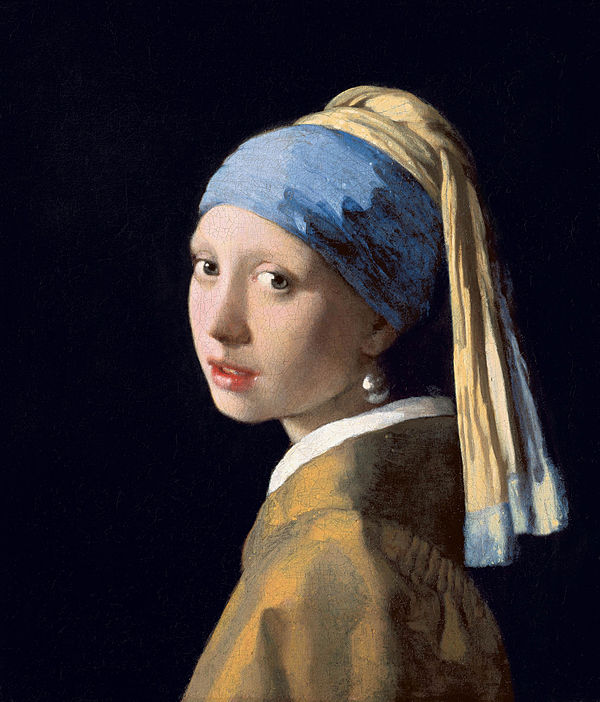
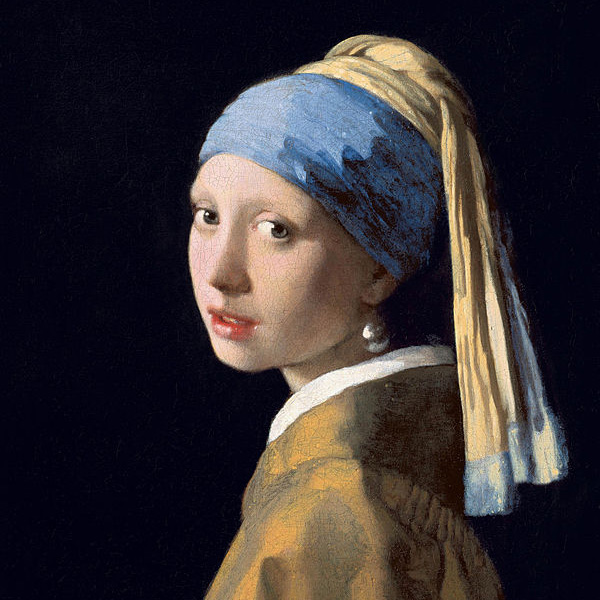
Added sample images and attribution

Changed region(s): [[0.3, 0.51, 0.96, 1.0], [0.3, 0.03, 0.87, 0.48]]

diff --git a/pages/index.vue b/pages/index.vue
@@ -6,11 +6,16 @@ v-container(grid-list-md text-xs-center)
 				v-layout(row wrap)
 					v-flex.pa-0(xs4)
 						v-card.px-2.py-4(flat)
-							v-img(
-								width="100%"
-								aspect-ratio="1"
-								:src="image"
-							)
+							v-tooltip(top :disabled="!sample.attribution")
+								template(v-slot:activator="{ on }")
+									v-img(
+										v-if="sample.src"
+										v-on="on"
+										width="100%"
+										aspect-ratio="1"
+										:src="sample.src"
+									)
+								small(v-if="sample.attribution") {{ sample.attribution }}
 							v-card-actions.pt-4.pb-0
 								v-spacer
 								v-dialog(
@@ -28,7 +33,7 @@ v-container(grid-list-md text-xs-center)
 												v-layout(row wrap)
 													v-flex(
 														v-for="sample in samples"
-														:key="sample"
+														:key="sample.name"
 														xs4
 													)
 														v-hover
@@ -40,7 +45,7 @@ v-container(grid-list-md text-xs-center)
 																@click="setSample(sample)"
 															)
 																v-img(
-																	:src="sample"
+																	:src="sample.src"
 																	aspect-ratio="1"
 																)
 												v-layout(row wrap)
@@ -196,7 +201,7 @@ export default {
 		return {
 			style: undefined,
 			image: '/samples/arch.jpg',
-			imageSrc: '/samples/archjpg',
+			imageSrc: '/samples/arch.jpg',
 			pixels: 640,
 			imageReader: {},
 			MediaStream: {},
@@ -217,10 +222,26 @@ export default {
 				'wave',
 				'wreck'
 			],
+			sample: undefined,
 			samples: [
-				'/samples/arch.jpg',
-				'/samples/puppy.jpg',
-				'/samples/vermeer.jpg'
+				{
+					src: "/samples/arch.jpg",
+					attribution: "St_Louis_night_expblend.jpg: Daniel Schwenderivative work: ←fetchcomms [CC BY-SA 2.5 (https://creativecommons.org/licenses/by-sa/2.5)]"
+				},
+				{
+					src: "/samples/cage.jpg",
+					attribution: "nicolas genin [CC BY-SA 2.0 (https://creativecommons.org/licenses/by-sa/2.0)]"
+				},
+				{
+					src: "/samples/vangogh.jpg"
+				},
+				{
+					src: "/samples/vermeer.jpg"
+				},
+				{
+					src: "/samples/stlouis.jpg",
+					attribution: "Colin Faulkingham [Public domain]"
+				}
 			]
 		}
 	},
@@ -235,6 +256,7 @@ export default {
 	mounted() {
 		this.MediaStream = window.MediaStream
 		this.imageReader = new imageReader()
+		this.sample = this.samples[0]
 		this.setStyle(this.model)
 	},
 	methods: {
@@ -242,7 +264,7 @@ export default {
 			this.snackbar = false
 			this.styleDialog = false
 			this.model = style
-			this.imageSrc = this.image
+			this.imageSrc = this.sample.src
 
 			const start = performance.now()
 			
@@ -254,8 +276,8 @@ export default {
 		},
 		setSample(sample) {
 			this.sampleDialog = false
-			this.image = sample
-			this.imageSrc = sample
+			this.sample = sample
+			this.imageSrc = sample.src
 		},
 		async styletransfer() {
 			this.snackbar = false
@@ -320,8 +342,9 @@ export default {
 			await this.imageReader.read(file)
 			const dataURL = await this.imageReader.resize(this.pixels, this.pixels)
 
-			this.samples.push(dataURL)
-			this.image = this.imageSrc = dataURL
+			this.samples.push({ src: dataURL })
+			this.sample = this.samples[this.samples.length - 1]
+			this.imageSrc = dataURL
 		}
 	}
 }
